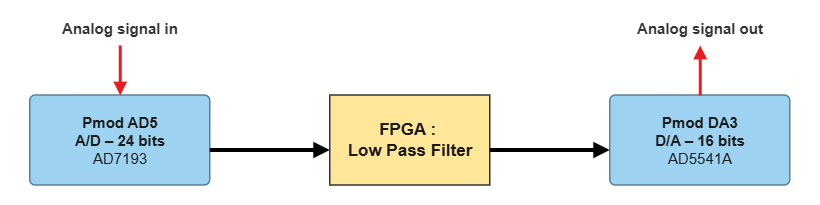
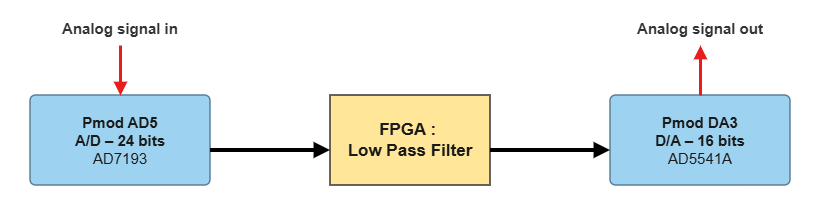
Fix Q-format notation: Q15 -> Q1.15

Changed region(s): [[0.3963, 0.7024, 0.4268, 0.761]]

diff --git a/matlab/README.md b/matlab/README.md
@@ -94,9 +94,9 @@ The filtered signal is the 50 Hz sinusoid. It is delayed by the filter but not d
 
 ## 6. Fixed-point study
 
-### Quantization of the coefficients (Q15)
+### Quantization of the coefficients (Q1.15) Q1.15 -> 1 sign bit and 15 bits of fractionnal data
 
-The coefficients are rounded to 16 bits in Q15 (`round(b · 2^15)`) and the filter is applied again with the quantized values. The Q15 output overlaps the floating-point output:
+The coefficients are rounded to 16 bits in Q1.15 (`round(b · 2^15)`) and the filter is applied again with the quantized values. The Q1.15 output overlaps the floating-point output:
 
 ![Q15 against floating point](Img/q15_vs_float_comparison.png)
 

diff --git a/README.md b/README.md
@@ -20,7 +20,7 @@ The chain is made of three VHDL blocks running on the 125 MHz system clock of th
 | --- | --- | --- |
 | `pmod_AD5` | SPI driver of the Pmod AD5 (AD7193, 24-bit ADC, up to 4.8 kHz) | `signal_sample_16`, 16 bits |
 | `FILTER` | FIR low-pass filter designed in [`matlab/`](matlab/) | `signal_filtered`, 16 bits |
-| `pmod_DA3` | SPI driver of the Pmod DA3 (16-bit DAC) | analog output |
+| `pmod_DA3` | SPI "LIKE" driver of the Pmod DA3 (16-bit DAC) | analog output |
 
 Each block is simulated on its own, then tested on the board, before being integrated. See [`sim/`](sim/).
 
